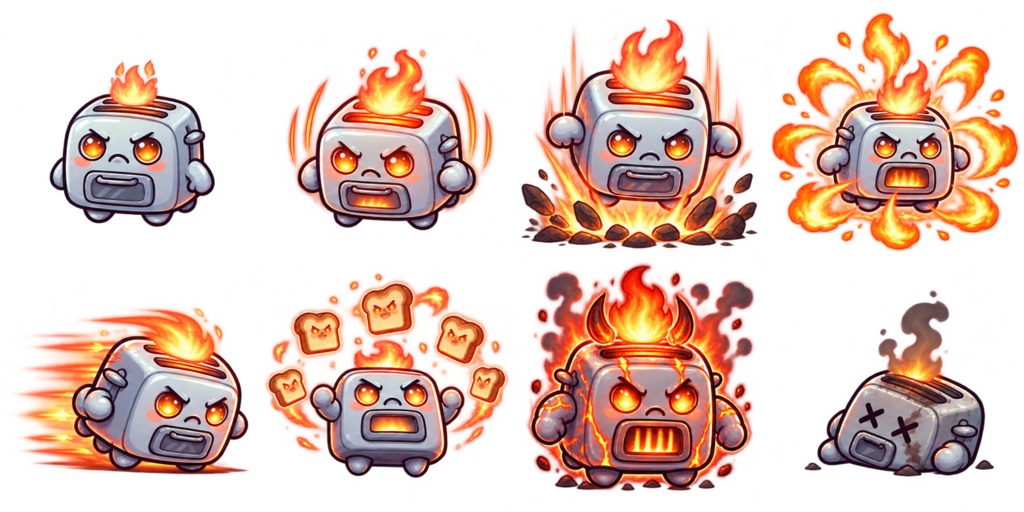
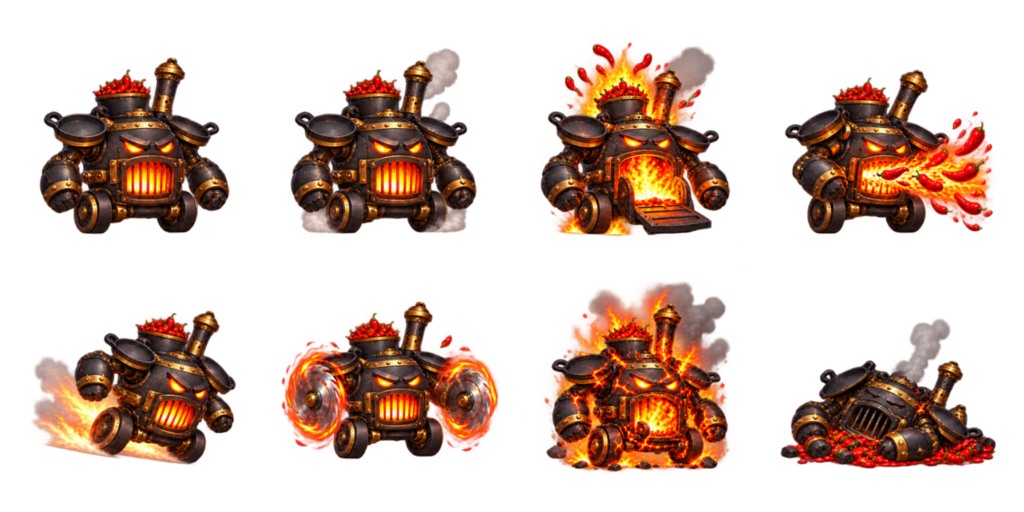
Redesign Stage 3 Mr. Griddle as a cast-iron chili furnace (v6.0.29)

diff --git a/game.js b/game.js
@@ -42,7 +42,7 @@ function clampPlayerStats(p){ if(p._uqGlass){p.maxhp=Math.max(1,Math.round(p.max
 const TAU = Math.PI * 2;   // global — Game scene (บอส/VFX) อ้างถึง TAU ด้วย เดิมประกาศเฉพาะใน Boot.create → "TAU is not defined"
 
 /* ---- เวอร์ชัน + บันทึกUpdates (build-www ดึงไปทำ version.json ให้หน้า download) ---- */
-const GAME_VERSION = '6.0.28';
+const GAME_VERSION = '6.0.29';
 // v5.79: ประตูทางแยกหลังมินิบอส (เลือก 3 จาก 5)
 const CROSSROADS=[
   {id:'treasure',emoji:'💰',name:'Treasure Room',desc:'Loot + a swarm',color:0xffd166},
@@ -54,6 +54,7 @@ const CROSSROADS=[
 const HURT_IFRAME_MUL = 0.6;
 const RELEASES_URL = 'https://github.com/hardza1230/Survival-like-Mobile-Game/releases/download/latest/mochi-mayhem-debug.apk';
 const CHANGELOG = [
+  { v:'6.0.29', date:'2026-09-30', title:'Mr. Griddle redesign', items:['Stage 3 boss now uses a cursed cast-iron griddle and chili furnace action sheet','Idle, overheat, chili spray, conveyor charge, grinder and phase-transition poses retain the existing attack timing and rules'] },
   { v:'6.0.28', date:'2026-09-29', title:'Reward artwork and Chapter 3 Bestiary', items:['Chest tiers show illustrated bronze, silver and gold badges; prize chest edges are cleaned and random currency has its own icon','Stage rewards and summary currency use item artwork; Chapter 3 enemies, minibosses and bosses are recorded in the Bestiary with painted portraits'] },
   { v:'6.0.27', date:'2026-09-29', title:'Brighter menu music', items:['Mochi Morning now has a bouncy major-key melody, quicker rhythm and playful candy-like percussion','The menu loop stays lightweight for mobile loading'] },
   { v:'6.0.26', date:'2026-09-29', title:'Clean prize icons and a new menu theme', items:['Sugar prizes use the candy art instead of the EXP cube; the strawberry jam jar has clean transparent edges','Pause Relics and Codex item entries show available artwork; the menu plays the new Mochi Morning theme'] },

diff --git a/docs/ART_STAGE3_GRIDDLE_REDESIGN.md b/docs/ART_STAGE3_GRIDDLE_REDESIGN.md
@@ -1,0 +1,35 @@
+# Stage 3 — Mr. Griddle redesign
+
+Delivered in game version 6.0.29. This is the Chapter 1 Stage 3 boss, not a Chapter 3 boss.
+
+## Runtime asset
+
+`assets/boss3_sheet.png` is a transparent 1024×512 PNG, arranged as four columns and two rows of 256×256 frames. The existing `boss3` texture registration consumes this file in combat, the Bestiary and boss previews.
+
+| Frame | Pose | Existing consumer |
+| --- | --- | --- |
+| 0 | Idle | `boss3_idle` |
+| 1 | Engine rumble | `boss3_idle` |
+| 2 | Furnace overheat | Furnace Overheat |
+| 3 | Chili spray | Chili Rain |
+| 4 | Conveyor charge | Conveyor Charge |
+| 5 | Spinning blade arms | Flavor Grinder |
+| 6 | Enraged overheat | Phase transitions |
+| 7 | Defeated | Reserved artwork; existing defeat behavior retained |
+
+Attack logic, damage, timing, collision and phase invulnerability are unchanged.
+
+## Art direction and prompt
+
+Generated with the built-in image tool. The previous session's reported new sheet could not be recovered from saved files, so this delivery recreates that direction.
+
+Production prompt: An imposing cursed cast-iron griddle/chili furnace machine, squat blackened iron boiler torso, orange furnace mouth, fierce amber eyes, frying-pan shoulder armor, brass rivets, pepper hopper/chimney, mechanical arms and wheeled base. Polished 2.5D candy fantasy illustration with readable silhouettes and consistent three-quarter viewpoint. Eight transparent sprites in a 4×2 grid: idle, rumble, overheat, chili spray, rightward charge, spinning blade arms, enraged overheat, defeated. No text, scenery or grid lines.
+
+Correction prompt: Preserve the design and pose order; fit each complete sprite and its effects within a square cell with transparent margins, shorten spray/trails as needed, and align the idle pair. The final sheet is scaled to the runtime resolution with its alpha preserved.
+
+## Validation
+
+- Inspect all eight frames for correct order, alpha and cell boundaries.
+- Run `npm run check` for source, content and balance validation.
+- Run `npm run build:www` to validate deployment packaging and cache hashes.
+- Confirm the packaged sheet matches the source asset and the attack implementation matches the parent commit.
